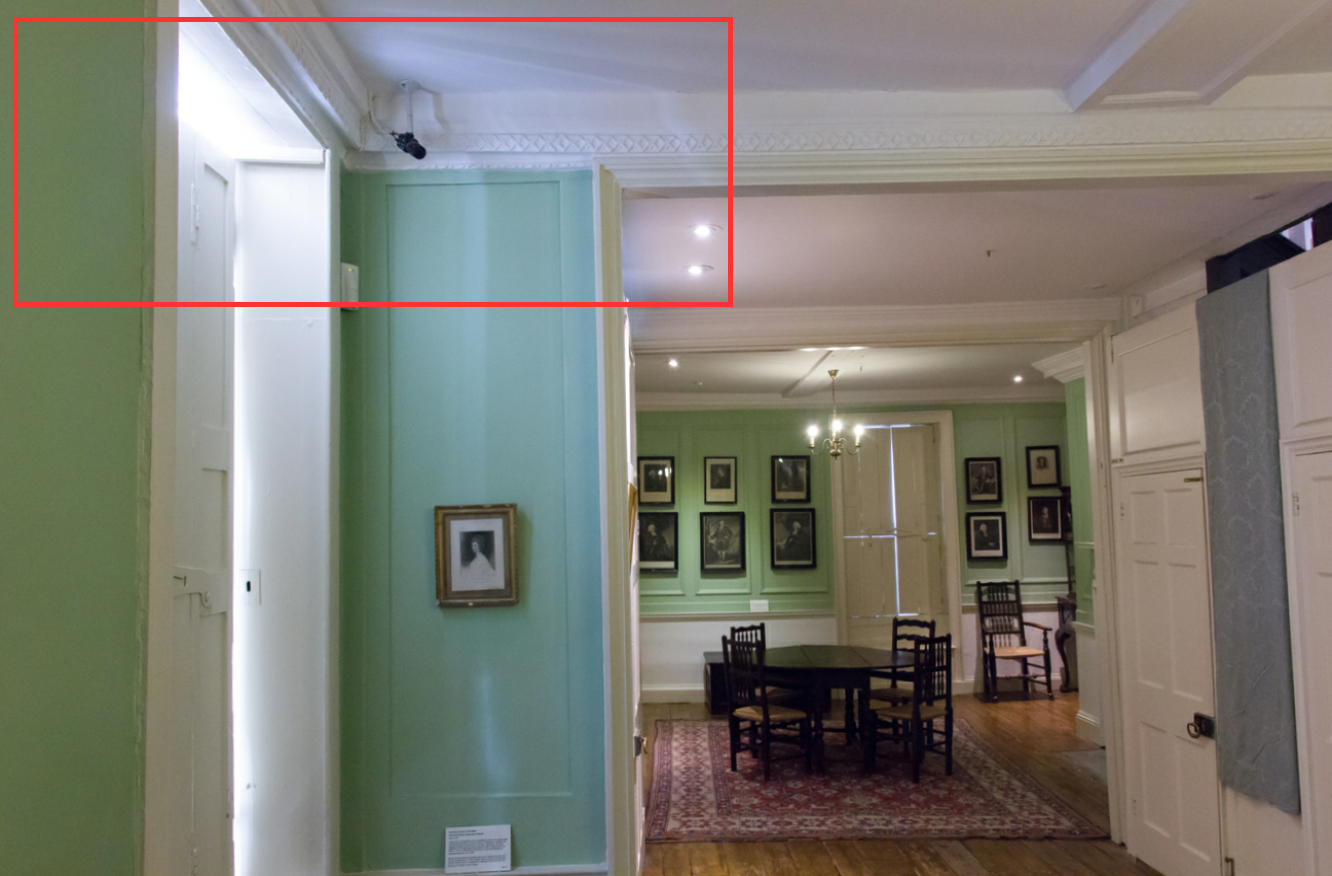
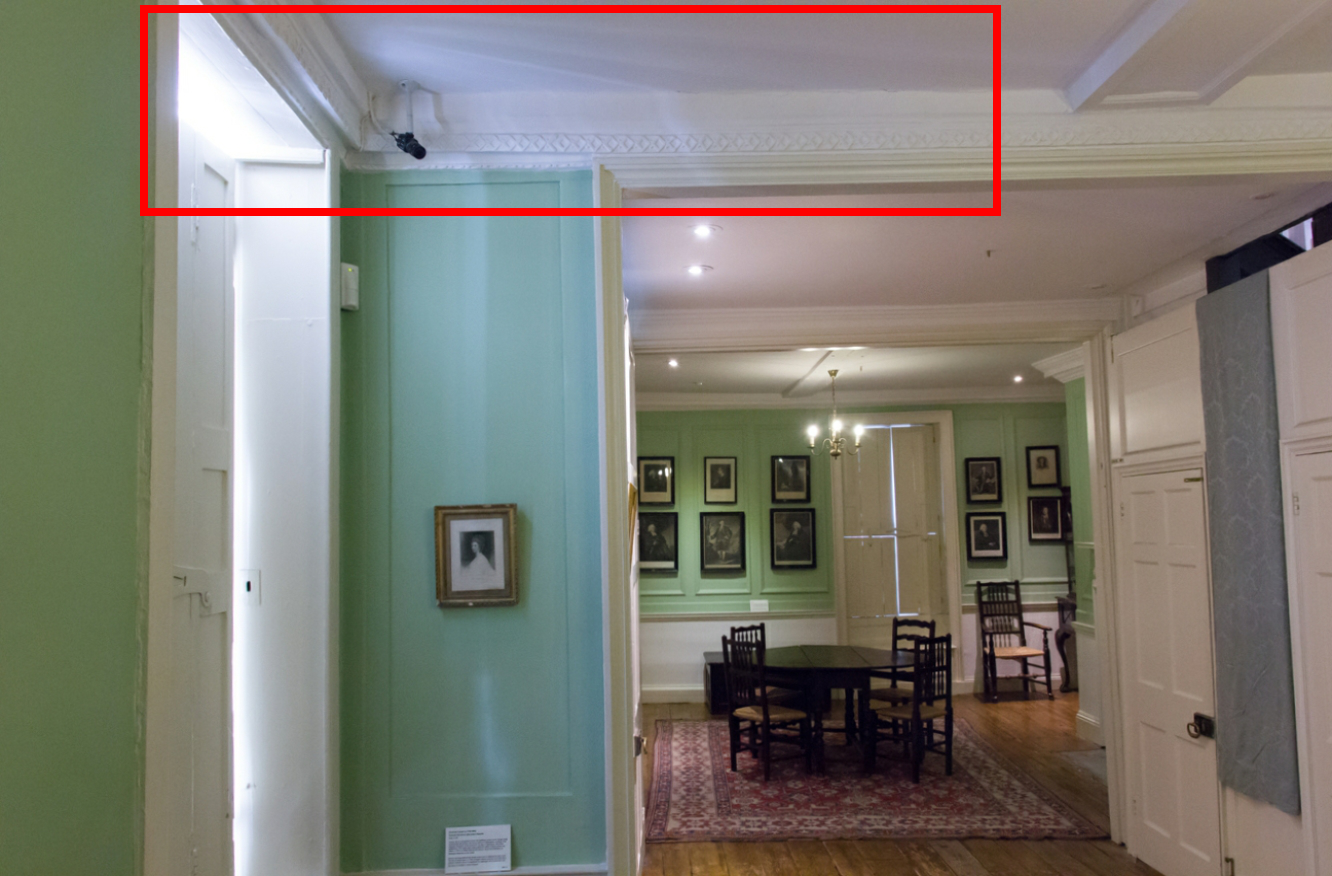
added the rectangles on view 2

Changed region(s): [[0.0, 0.0, 0.7695, 0.3699]]

diff --git a/Chapters/experiments_and_results.tex b/Chapters/experiments_and_results.tex
@@ -435,31 +435,31 @@ Beyond quantitative metrics, we present qualitative visual comparisons demonstra
         \small View 1 & \small View 2 & \small View 3 & \small View 4 \\[2pt]
         % Ground Truth row
         \includegraphics[width=0.235\textwidth]{comparison_figures/drjohnson_gt_view01.png} &
-        \includegraphics[width=0.235\textwidth]{comparison_figures/drjohnson_gt_view03.png} &
+        \includegraphics[width=0.235\textwidth]{comparison_figures/drjohnson_gt_view03_rect.png} &
         \includegraphics[width=0.235\textwidth]{comparison_figures/drjohnson_gt_view04.png} &
         \includegraphics[width=0.235\textwidth]{comparison_figures/drjohnson_gt_view06_rect.png} \\
         \multicolumn{4}{c}{\small\textbf{(a) Ground Truth}} \\[4pt]
         % 3D-GS row
         \includegraphics[width=0.235\textwidth]{comparison_figures/view_01_3DGS_original.png} &
-        \includegraphics[width=0.235\textwidth]{comparison_figures/view_03_3DGS_Original.png} &
+        \includegraphics[width=0.235\textwidth]{comparison_figures/view_03_3DGS_Original_rect.png} &
         \includegraphics[width=0.235\textwidth]{comparison_figures/view_04_3DGS.png} &
         \includegraphics[width=0.235\textwidth]{comparison_figures/view_06_3DGS_rect.png} \\
         \multicolumn{4}{c}{\small\textbf{(b) 3D Gaussian Splatting} — 740 MB} \\[4pt]
         % GeoGaussian row
         \includegraphics[width=0.235\textwidth]{comparison_figures/view_01_GeoGaussian.png} &
-        \includegraphics[width=0.235\textwidth]{comparison_figures/view_03_GeoGaussian.png} &
+        \includegraphics[width=0.235\textwidth]{comparison_figures/view_03_GeoGaussian_rect.png} &
         \includegraphics[width=0.235\textwidth]{comparison_figures/view_04_GeoGaussian.png} &
         \includegraphics[width=0.235\textwidth]{comparison_figures/view_06_GeoGaussian_rect.png} \\
         \multicolumn{4}{c}{\small\textbf{(c) GeoGaussian} — 281 MB} \\[4pt]
         % PlanarGS row
         \includegraphics[width=0.235\textwidth]{comparison_figures/view_01_PlanarGS.png} &
-        \includegraphics[width=0.235\textwidth]{comparison_figures/view_03_PlanarGS.png} &
+        \includegraphics[width=0.235\textwidth]{comparison_figures/view_03_PlanarGS_rect.png} &
         \includegraphics[width=0.235\textwidth]{comparison_figures/view_04_PlanarGS.png} &
         \includegraphics[width=0.235\textwidth]{comparison_figures/view_06_PlanarGS_rect.png} \\
         \multicolumn{4}{c}{\small\textbf{(d) PlanarGS} — 410 MB} \\[4pt]
         % Ours row
         \includegraphics[width=0.235\textwidth]{comparison_figures/view_01_PlanarGS_Opus_new.png} &
-        \includegraphics[width=0.235\textwidth]{comparison_figures/view_03_PlanarGS_Opus_new.png} &
+        \includegraphics[width=0.235\textwidth]{comparison_figures/view_03_PlanarGS_Opus_new_rect.png} &
         \includegraphics[width=0.235\textwidth]{comparison_figures/view_04_PlanarGS_Opus_new.png} &
         \includegraphics[width=0.235\textwidth]{comparison_figures/view_06_Ours_rect.png} \\
         \multicolumn{4}{c}{\small\textbf{(e) Ours (PlanarGS + edge-aware)} — 222 MB} \\
